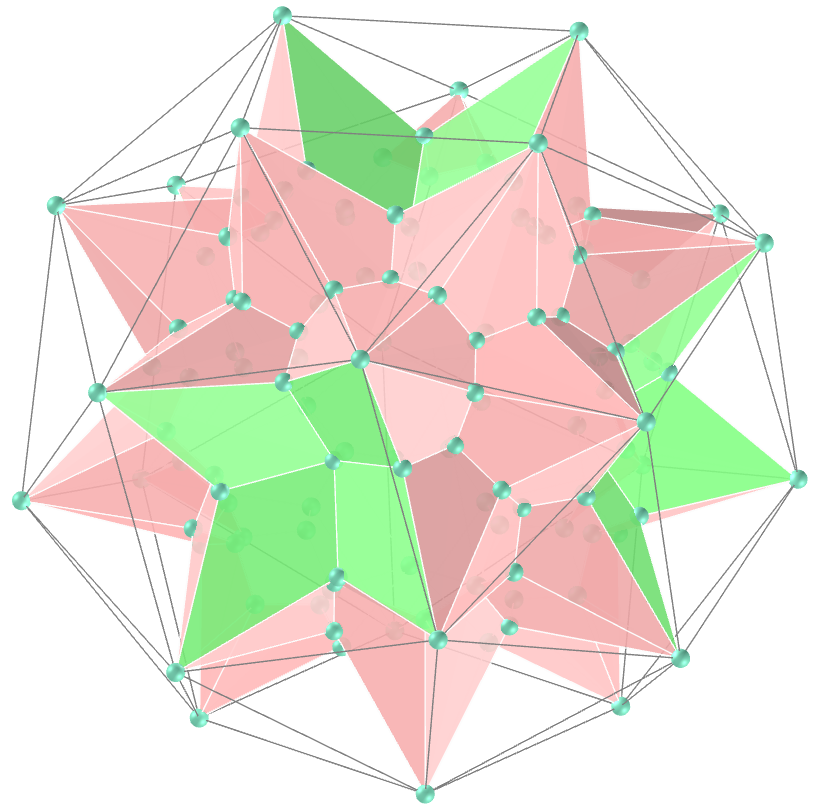
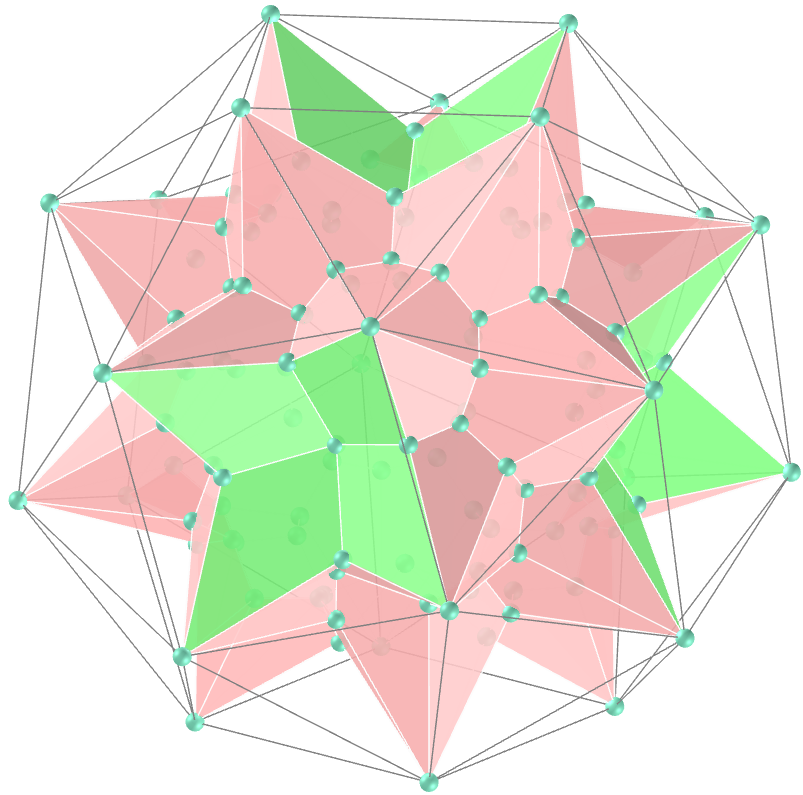
update

diff --git a/kites/vr/Snub_Dodecahedron.htm b/kites/vr/Snub_Dodecahedron.htm
@@ -93,7 +93,7 @@
 			<a-sphere mixin='esfera' position='1.437669842 0.243491795 1.229429358'></a-sphere>
 			<a-sphere mixin='esfera' position='0.901760155 0.623628234 1.560639699'></a-sphere>
 			<a-sphere mixin='esfera' position='0.428618701 0.141931568 1.853057592'></a-sphere>
-			<a-sphere mixin='esfera' position='0.830956199 0 1.344515598'></a-sphere>
+			<a-sphere mixin='esfera' position='0.8085561726 0 1.3082715878'></a-sphere>
 			<a-sphere mixin='esfera' position='0 0 1.907270613'></a-sphere>
 			<a-sphere mixin='esfera' position='-0.428618701 -0.141931568 1.853057592'></a-sphere>
 			<a-sphere mixin='esfera' position='-0.087718092 -0.442904217 1.853057592'></a-sphere>
@@ -103,67 +103,67 @@
 			<a-sphere mixin='esfera' position='1.437669842 -0.243491795 -1.229429358'></a-sphere>
 			<a-sphere mixin='esfera' position='0.901760155 -0.623628234 -1.560639699'></a-sphere>
 			<a-sphere mixin='esfera' position='0.428618701 -0.141931568 -1.853057592'></a-sphere>
-			<a-sphere mixin='esfera' position='0.830956199 0 -1.344515598'></a-sphere>
+			<a-sphere mixin='esfera' position='0.8085561726 0 -1.3082715878'></a-sphere>
 			<a-sphere mixin='esfera' position='-0.67211095 0.535909687 1.702571267'></a-sphere>
 			<a-sphere mixin='esfera' position='-1.295738729 0.473141909 1.317147905'></a-sphere>
 			<a-sphere mixin='esfera' position='-1.437669842 -0.243491795 1.229429358'></a-sphere>
 			<a-sphere mixin='esfera' position='-0.901760155 -0.623628234 1.560639699'></a-sphere>
 			<a-sphere mixin='esfera' position='-0.428618701 -0.141931568 1.853057592'></a-sphere>
-			<a-sphere mixin='esfera' position='-0.830956199 0 1.344515598'></a-sphere>
+			<a-sphere mixin='esfera' position='-0.8085561726 0 1.3082715878'></a-sphere>
 			<a-sphere mixin='esfera' position='-0.67211095 -0.535909687 -1.702571267'></a-sphere>
 			<a-sphere mixin='esfera' position='-1.295738729 -0.473141909 -1.317147905'></a-sphere>
 			<a-sphere mixin='esfera' position='-1.437669842 0.243491795 -1.229429358'></a-sphere>
 			<a-sphere mixin='esfera' position='-0.901760155 0.623628234 -1.560639699'></a-sphere>
 			<a-sphere mixin='esfera' position='-0.428618701 0.141931568 -1.853057592'></a-sphere>
-			<a-sphere mixin='esfera' position='-0.830956199 0 -1.344515598'></a-sphere>
+			<a-sphere mixin='esfera' position='-0.8085561726 0 -1.3082715878'></a-sphere>
 			<a-sphere mixin='esfera' position='1.702571267 -0.67211095 0.535909687'></a-sphere>
 			<a-sphere mixin='esfera' position='1.317147905 -1.295738729 0.473141909'></a-sphere>
 			<a-sphere mixin='esfera' position='1.229429358 -1.437669842 -0.243491795'></a-sphere>
 			<a-sphere mixin='esfera' position='1.560639699 -0.901760155 -0.623628234'></a-sphere>
 			<a-sphere mixin='esfera' position='1.853057592 -0.428618701 -0.141931568'></a-sphere>
-			<a-sphere mixin='esfera' position='1.344515598 -0.830956199 0'></a-sphere>
+			<a-sphere mixin='esfera' position='1.3082715878 -0.8085561726 0'></a-sphere>
 			<a-sphere mixin='esfera' position='1.702571267 0.67211095 -0.535909687'></a-sphere>
 			<a-sphere mixin='esfera' position='1.317147905 1.295738729 -0.473141909'></a-sphere>
 			<a-sphere mixin='esfera' position='1.229429358 1.437669842 0.243491795'></a-sphere>
 			<a-sphere mixin='esfera' position='1.560639699 0.901760155 0.623628234'></a-sphere>
 			<a-sphere mixin='esfera' position='1.853057592 0.428618701 0.141931568'></a-sphere>
-			<a-sphere mixin='esfera' position='1.344515598 0.830956199 0'></a-sphere>
+			<a-sphere mixin='esfera' position='1.3082715878 0.8085561726 0'></a-sphere>
 			<a-sphere mixin='esfera' position='-1.702571267 0.67211095 0.535909687'></a-sphere>
 			<a-sphere mixin='esfera' position='-1.317147905 1.295738729 0.473141909'></a-sphere>
 			<a-sphere mixin='esfera' position='-1.229429358 1.437669842 -0.243491795'></a-sphere>
 			<a-sphere mixin='esfera' position='-1.560639699 0.901760155 -0.623628234'></a-sphere>
 			<a-sphere mixin='esfera' position='-1.853057592 0.428618701 -0.141931568'></a-sphere>
-			<a-sphere mixin='esfera' position='-1.344515598 0.830956199 0'></a-sphere>
+			<a-sphere mixin='esfera' position='-1.3082715878 0.8085561726 0'></a-sphere>
 			<a-sphere mixin='esfera' position='-1.702571267 -0.67211095 -0.535909687'></a-sphere>
 			<a-sphere mixin='esfera' position='-1.317147905 -1.295738729 -0.473141909'></a-sphere>
 			<a-sphere mixin='esfera' position='-1.229429358 -1.437669842 0.243491795'></a-sphere>
 			<a-sphere mixin='esfera' position='-1.560639699 -0.901760155 0.623628234'></a-sphere>
 			<a-sphere mixin='esfera' position='-1.853057592 -0.428618701 0.141931568'></a-sphere>
-			<a-sphere mixin='esfera' position='-1.344515598 -0.830956199 0'></a-sphere>
+			<a-sphere mixin='esfera' position='-1.3082715878 -0.8085561726 0'></a-sphere>
 			<a-sphere mixin='esfera' position='0.535909687 -1.702571267 0.67211095'></a-sphere>
 			<a-sphere mixin='esfera' position='0.473141909 -1.317147905 1.295738729'></a-sphere>
 			<a-sphere mixin='esfera' position='-0.243491795 -1.229429358 1.437669842'></a-sphere>
 			<a-sphere mixin='esfera' position='-0.623628234 -1.560639699 0.901760155'></a-sphere>
 			<a-sphere mixin='esfera' position='-0.141931568 -1.853057592 0.428618701'></a-sphere>
-			<a-sphere mixin='esfera' position='0 -1.344515598 0.830956199'></a-sphere>
+			<a-sphere mixin='esfera' position='0 -1.3082715878 0.8085561726'></a-sphere>
 			<a-sphere mixin='esfera' position='0.535909687 1.702571267 -0.67211095'></a-sphere>
 			<a-sphere mixin='esfera' position='0.473141909 1.317147905 -1.295738729'></a-sphere>
 			<a-sphere mixin='esfera' position='-0.243491795 1.229429358 -1.437669842'></a-sphere>
 			<a-sphere mixin='esfera' position='-0.623628234 1.560639699 -0.901760155'></a-sphere>
 			<a-sphere mixin='esfera' position='-0.141931568 1.853057592 -0.428618701'></a-sphere>
-			<a-sphere mixin='esfera' position='0 1.344515598 -0.830956199'></a-sphere>
+			<a-sphere mixin='esfera' position='0 1.3082715878 -0.8085561726'></a-sphere>
 			<a-sphere mixin='esfera' position='-0.535909687 1.702571267 0.67211095'></a-sphere>
 			<a-sphere mixin='esfera' position='-0.473141909 1.317147905 1.295738729'></a-sphere>
 			<a-sphere mixin='esfera' position='0.243491795 1.229429358 1.437669842'></a-sphere>
 			<a-sphere mixin='esfera' position='0.623628234 1.560639699 0.901760155'></a-sphere>
 			<a-sphere mixin='esfera' position='0.141931568 1.853057592 0.428618701'></a-sphere>
-			<a-sphere mixin='esfera' position='0 1.344515598 0.830956199'></a-sphere>
+			<a-sphere mixin='esfera' position='0 1.3082715878 0.8085561726'></a-sphere>
 			<a-sphere mixin='esfera' position='-0.535909687 -1.702571267 -0.67211095'></a-sphere>
 			<a-sphere mixin='esfera' position='-0.473141909 -1.317147905 -1.295738729'></a-sphere>
 			<a-sphere mixin='esfera' position='0.243491795 -1.229429358 -1.437669842'></a-sphere>
 			<a-sphere mixin='esfera' position='0.623628234 -1.560639699 -0.901760155'></a-sphere>
 			<a-sphere mixin='esfera' position='0.141931568 -1.853057592 -0.428618701'></a-sphere>
-			<a-sphere mixin='esfera' position='0 -1.344515598 -0.830956199'></a-sphere>
+			<a-sphere mixin='esfera' position='0 -1.3082715878 -0.8085561726'></a-sphere>
 			<a-sphere mixin='esfera' position='0 0 -1.907270613'></a-sphere>
 			<a-sphere mixin='esfera' position='-0.428618701 0.141931568 -1.853057592'></a-sphere>
 			<a-sphere mixin='esfera' position='-0.087718092 0.442904217 -1.853057592'></a-sphere>
@@ -467,19 +467,19 @@
 			<a-sphere mixin='esfera' position='1.304809173 0.9748021 0.992427755'></a-sphere>
 			<a-sphere mixin='esfera' position='0.992427755 1.304809173 0.9748021'></a-sphere>
 			<a-sphere mixin='esfera' position='0.9748021 0.992427755 1.304809173'></a-sphere>
-			<a-sphere mixin='esfera' position='1.060819397 1.060819397 1.060819397'></a-sphere>
+			<a-sphere mixin='esfera' position='1.0587409894 1.0587409894 1.0587409894'></a-sphere>
 			<a-sphere mixin='esfera' position='1.304809173 -0.9748021 -0.992427755'></a-sphere>
 			<a-sphere mixin='esfera' position='0.992427755 -1.304809173 -0.9748021'></a-sphere>
 			<a-sphere mixin='esfera' position='0.9748021 -0.992427755 -1.304809173'></a-sphere>
-			<a-sphere mixin='esfera' position='1.060819397 -1.060819397 -1.060819397'></a-sphere>
+			<a-sphere mixin='esfera' position='1.0587409894 -1.0587409894 -1.0587409894'></a-sphere>
 			<a-sphere mixin='esfera' position='-1.304809173 -0.9748021 0.992427755'></a-sphere>
 			<a-sphere mixin='esfera' position='-0.992427755 -1.304809173 0.9748021'></a-sphere>
 			<a-sphere mixin='esfera' position='-0.9748021 -0.992427755 1.304809173'></a-sphere>
-			<a-sphere mixin='esfera' position='-1.060819397 -1.060819397 1.060819397'></a-sphere>
+			<a-sphere mixin='esfera' position='-1.0587409894 -1.0587409894 1.0587409894'></a-sphere>
 			<a-sphere mixin='esfera' position='-1.304809173 0.9748021 -0.992427755'></a-sphere>
 			<a-sphere mixin='esfera' position='-0.992427755 1.304809173 -0.9748021'></a-sphere>
 			<a-sphere mixin='esfera' position='-0.9748021 0.992427755 -1.304809173'></a-sphere>
-			<a-sphere mixin='esfera' position='-1.060819397 1.060819397 -1.060819397'></a-sphere>
+			<a-sphere mixin='esfera' position='-1.0587409894 1.0587409894 -1.0587409894'></a-sphere>
 		</a-entity>
 		
 		<a-box mixin="piso" class="piso" visible="false" position="0 -1.5 0"></a-box>
